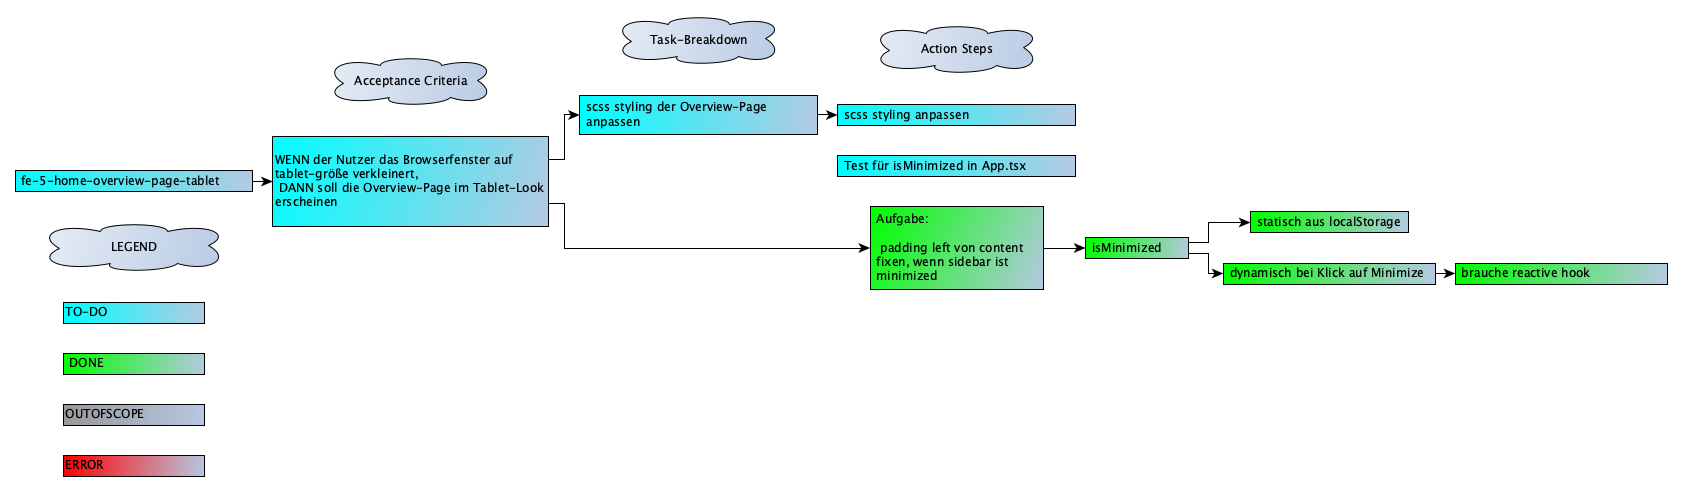
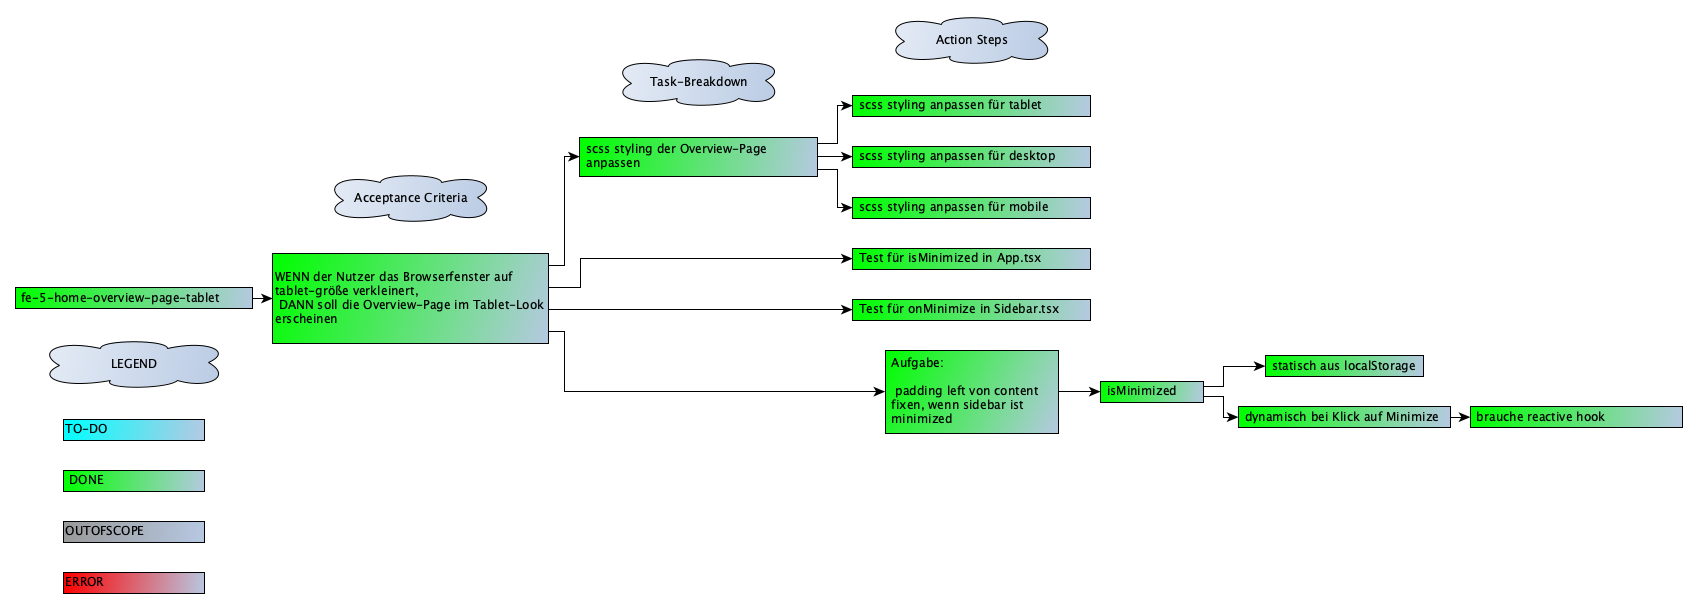
fe-5 add mobile styling

diff --git a/frontend/src/components/overview/budgets/OverviewBudgets.scss b/frontend/src/components/overview/budgets/OverviewBudgets.scss
@@ -1,3 +1,5 @@
+@use '../../../styles/mixins';
+
 .overviewBudgets {
   border-radius: 12px;
   background-color: var(--component-background-bright);
@@ -5,6 +7,10 @@
   display: flex;
   flex-direction: column;
   row-gap: 20px;
+
+  @include mixins.phone(){
+    padding: 24px 20px;
+  }
 }
 
 .overviewBudgetsContent {
@@ -12,10 +18,21 @@
   display: grid;
   grid-template-columns: auto fit-content(100%);
   column-gap: 16px;
+
+  @include mixins.phone(){
+    grid-template-columns: 1fr;
+  }
 }
 
 .overviewBudgetsValues {
   display: flex;
   flex-direction: column;
   row-gap: 16px;
+
+  @include mixins.phone(){
+    margin-top: 16px;
+    display: grid;
+    flex-direction: column;
+    grid-template-columns: 1fr 1fr;
+  }
 }

diff --git a/frontend/src/components/overview/pots/OverviewPots.scss b/frontend/src/components/overview/pots/OverviewPots.scss
@@ -1,3 +1,5 @@
+@use '../../../styles/mixins';
+
 .overviewPots {
   border-radius: 12px;
   background-color: var(--component-background-bright);
@@ -5,12 +7,21 @@
   display: grid;
   grid-template-rows: auto auto;
   row-gap: 20px;
+
+  @include mixins.phone() {
+    padding: 24px 20px;
+  }
 }
 
 .overviewPotsContent {
   display: grid;
   grid-template-columns: 45% 55%;
   column-gap: 20px;
+
+  @include mixins.phone() {
+    grid-template-columns: 1fr;
+    row-gap: 20px;
+  }
 }
 
 .overviewPotsValues {

diff --git a/frontend/src/pages/OverviewPage.scss b/frontend/src/pages/OverviewPage.scss
@@ -3,16 +3,20 @@
 .overviewPage {
   padding: 32px 40px;
   width: 100%;
+
+  @include mixins.phone(){
+    padding: 24px 16px;
+  }
 }
 
 .overviewPageDetails {
   display: grid;
-  grid-template-columns: calc(60% - 12px) calc(40% - 12px);
+  grid-template-columns: repeat(auto-fit, (minmax(480px, 1fr)));
   column-gap: 24px;
+  row-gap: 24px;
 
   @include mixins.tablet-and-down() {
     grid-template-columns: 1fr;
-    row-gap: 24px;
   }
 }
 

diff --git a/frontend/src/components/overview/summary/SummaryCard.scss b/frontend/src/components/overview/summary/SummaryCard.scss
@@ -1,3 +1,5 @@
+@use '../../../styles/mixins';
+
 .overviewSummaryCard {
   border-radius: 12px;
   background-color: var(--component-background-bright);
@@ -5,6 +7,10 @@
   display: flex;
   flex-direction: column;
   row-gap: 12px;
+
+  @include mixins.phone(){
+    padding: 20px;
+  }
 }
 .overviewSummaryCard.inverted {
   background-color: var(--component-background-dark);

diff --git a/frontend/src/components/overview/bills/OverviewBills.scss b/frontend/src/components/overview/bills/OverviewBills.scss
@@ -1,3 +1,5 @@
+@use '../../../styles/mixins';
+
 .overviewBills {
   border-radius: 12px;
   background-color: var(--component-background-bright);
@@ -5,6 +7,10 @@
   display: flex;
   flex-direction: column;
   row-gap: 32px;
+
+  @include mixins.phone(){
+    padding: 24px 20px;
+  }
 }
 
 .overviewBillsContent {

diff --git a/frontend/src/components/overview/transactions/OverviewTransactions.scss b/frontend/src/components/overview/transactions/OverviewTransactions.scss
@@ -1,3 +1,5 @@
+@use '../../../styles/mixins';
+
 .overviewTransactions {
   border-radius: 12px;
   background-color: var(--component-background-bright);
@@ -5,4 +7,8 @@
   display: grid;
   grid-template-rows: auto auto;
   row-gap: 32px;
+
+  @include mixins.phone(){
+    padding: 24px 20px;
+  }
 }

diff --git a/frontend/src/components/overview/pots/PotsSummary.scss b/frontend/src/components/overview/pots/PotsSummary.scss
@@ -22,6 +22,9 @@
 .overviewPotsSummaryContentValue {
   font-size: 36px;
   font-weight: 700;
+  white-space: nowrap;
+  overflow: hidden;
+  text-overflow: ellipsis;
   color: var(--text-dark);
 }
 
